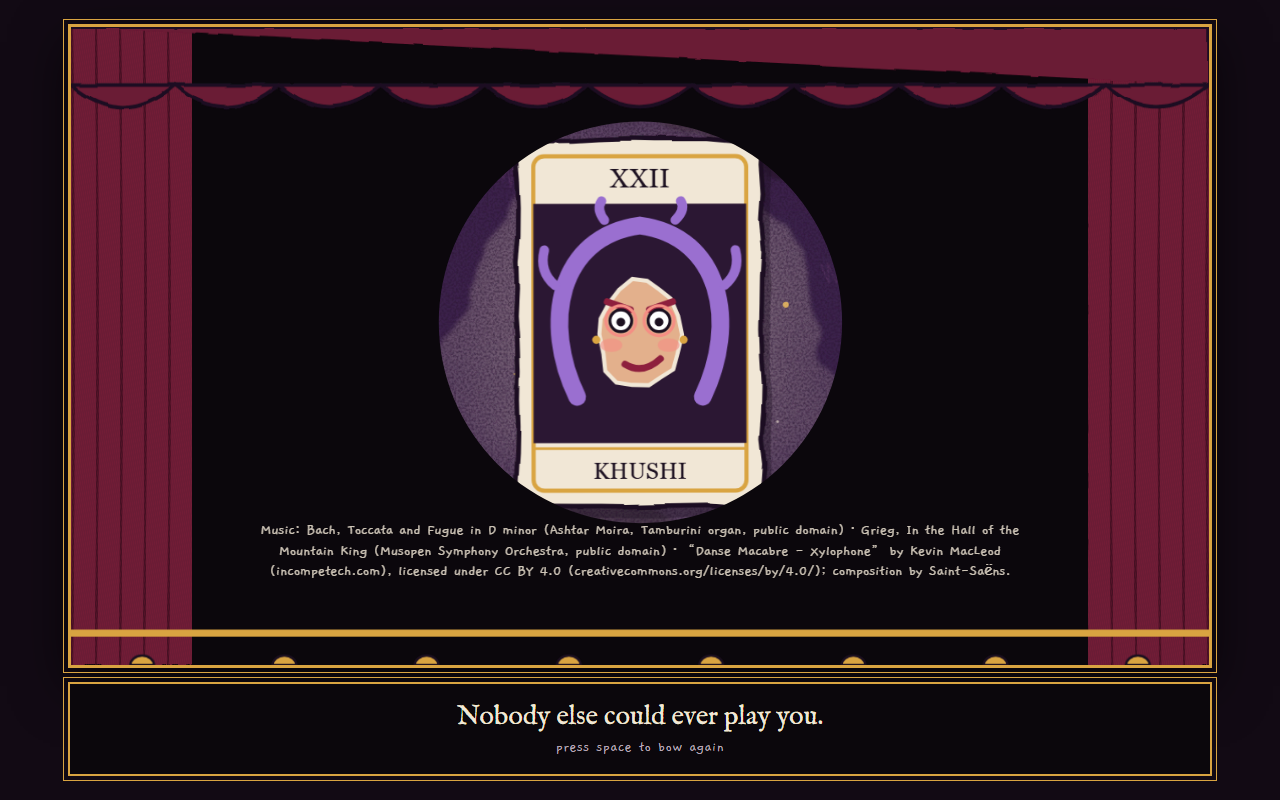
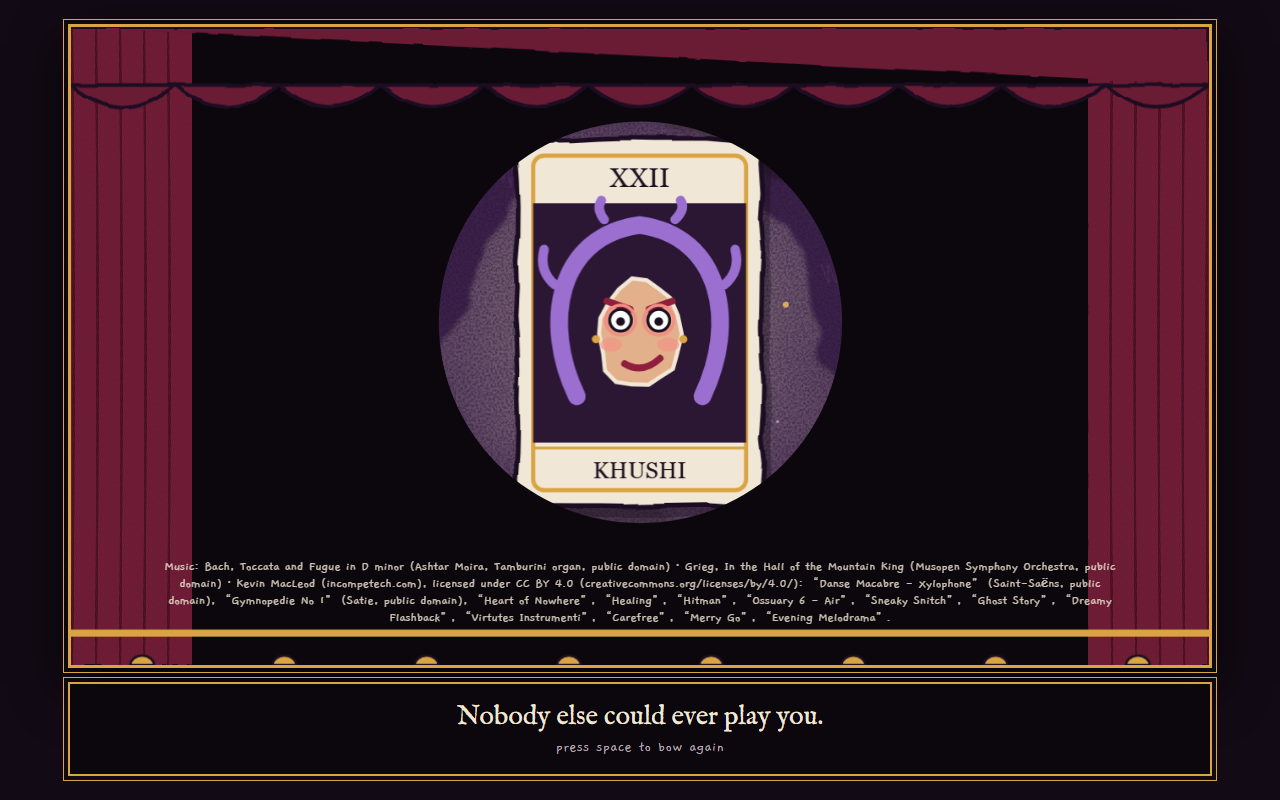
witch: v2 audio engine, new music wired, credits

diff --git a/the-witch-who-would-not-be-read/app.js b/the-witch-who-would-not-be-read/app.js
@@ -180,7 +180,7 @@
      SFX: thud(i) gong hit flingHit(hit + cut) ting(i) doorSlam pencil tick longTick heartbeatTick stroke(i)
      brushChord(=stroke) bell(n) bells([a,b] or 'a-b') bellsA(1-6) bellsB(7-11) bell12 bells12(all twelve)
      whoosh pop rustle munch chime flap boing slideWhistle. Unknown names are logged and stay silent. */
-  let activeName = null, noiseBuf = null;
+  let activeName = null, noiseBuf = null, strokeN = 0;
   const BASE_VOL = 0.88;
 
   function setVol(t, v) {
@@ -260,7 +260,20 @@
     mountainKing: { file: 'mountain-king', loop: false },
     musicBox: { file: 'music-box', loop: true },
     misteriosoCard: { file: 'misterioso-card', loop: true },
-    finale: { file: 'waltz-finale', loop: false }
+    finale: { file: 'waltz-finale', loop: false },
+    /* v2 additions (Kevin MacLeod, CC BY 4.0; 38-75 s, they fade out by themselves) */
+    dreamyTarot: { file: 'dreamy-tarot', loop: false },
+    hitmanDread: { file: 'hitman-dread', loop: false },
+    gymnopedieCall: { file: 'gymnopedie-call', loop: false },
+    eveningMelodramaStamp: { file: 'evening-melodrama-stamp', loop: false },
+    ossuaryAirSuspended: { file: 'ossuary-air-suspended', loop: true },
+    virtutesDoctor: { file: 'virtutes-doctor', loop: false },
+    sneakySnitchBitch: { file: 'sneaky-snitch-bitch', loop: false },
+    heartOfNowhereHealer: { file: 'heart-of-nowhere-healer', loop: false },
+    ghostStoryWitch: { file: 'ghost-story-witch', loop: false },
+    carefreeArtist: { file: 'carefree-artist', loop: false },
+    merryGoConfetti: { file: 'merry-go-confetti', loop: false },
+    healingClosing: { file: 'healing-closing', loop: false }
   };
   const ALIAS = {
     waltzPrim: ['waltz'], waltzSoft: ['waltz', 'soft'], waltzLoud: ['waltz', 'loud'], waltzOff: ['waltz', 'off'],
@@ -274,7 +287,7 @@
     if (f.soft) vol *= 0.55;
     if (f.low) vol *= 0.5;
     if (f.loud) vol = 0.95;
-    playFile(d.file, { loop: d.loop, loopStart: d.loopStart || 0, vol, rate: f.off ? 0.94 : 1, fadeIn: f.fade ? 1000 : 0, cross: f.cross ? 1000 : 0, cutAfter: d.cutAfter || 0 });
+    playFile(d.file, { loop: d.loop, loopStart: d.loopStart || 0, vol, rate: f.off ? 0.94 : 1, fadeIn: f.fade2 ? 2000 : (f.fade || f.fadeIn) ? 1000 : 0, cross: f.cross2 ? 2000 : f.cross ? 1000 : 0, cutAfter: d.cutAfter || 0 });
   }
 
   const mtof = m => 440 * Math.pow(2, (m - 69) / 12);
@@ -312,12 +325,16 @@
     const t = ACX ? ACX.currentTime : 0;
     const num = Number.isFinite(Number(arg)) && arg !== null && arg !== '' && !Array.isArray(arg) ? Number(arg) : 0;
     if (MUSIC[name]) {
+      if (name === 'overture') strokeN = 0;
       if (name === 'overture' && ACX) [43, 55, 58, 62, 67].forEach(m => osc('sawtooth', mtof(m), t, 0.9, 0.08, sfxGain, 2200));
       playMusic(name, arg);
       return;
     }
     switch (name) {
       case 'silence': case 'cut': stopMusicDead(); break;
+      case 'musicLevel': { const m = activeName && tracks[activeName]; if (m) { m.base = Math.min(1, num); fadeTrack(m, m.base, 400); } break; }
+      case 'musicDuck': { const m = activeName && tracks[activeName]; if (m) fadeTrack(m, arg == null ? 0.25 : num, 300); break; }
+      case 'musicFade': fadeMusicOut(1000); break;
       case 'fadeOut': fadeMusicOut(typeof arg === 'number' ? arg : 1000); break;
       case 'duck': { const m = activeName && tracks[activeName]; if (m) fadeTrack(m, (m.base || BASE_VOL) * 0.25, 400); break; }
       case 'unduck': {
@@ -371,6 +388,20 @@
         if (o) o.frequency.exponentialRampToValueAtTime(f0 * 2, t + 0.5);
         osc('triangle', f0 * 3, t + 0.05, 0.4, 0.05, sfxGain, 6000);
         noise(t, 0.25, 0.04, 2500, 'bandpass', 0.9);
+      } break;
+      case 'gongSoft': if (ACX) [38, 45, 50, 57, 61, 66].forEach((m, i) => osc(i % 2 ? 'triangle' : 'sawtooth', mtof(m), t, 2.2, 0.022, sfxGain, 1000)); break; /* leaves the music running */
+      case 'tagThud': if (ACX) {
+        const o = osc('sine', 150, t, 0.2, 0.2, sfxGain, 420);
+        if (o) o.frequency.exponentialRampToValueAtTime(70, t + 0.15);
+        noise(t, 0.06, 0.07, 1200, 'lowpass');
+      } break;
+      case 'brushStroke': if (ACX) {
+        if (arg === 'reset') { strokeN = 0; break; }
+        const f0 = 392 * Math.pow(1.1225, strokeN % 9); strokeN++;
+        const o = osc('sine', f0, t, 0.35, 0.13, sfxGain, 5000);
+        if (o) o.frequency.exponentialRampToValueAtTime(f0 * 1.5, t + 0.25);
+        osc('triangle', f0 * 2, t + 0.03, 0.22, 0.035, sfxGain, 6000);
+        noise(t, 0.12, 0.025, 2600, 'bandpass', 0.9);
       } break;
       case 'bell': if (ACX) bell(num || 1, t); break;
       case 'bells': if (ACX) {

diff --git a/the-witch-who-would-not-be-read/act5.js b/the-witch-who-would-not-be-read/act5.js
@@ -129,7 +129,7 @@ const V5clock = { x: 836, y: 104, s: 0.4, h: 11.984 };
     ],
     async run(ctx) {
       ctx.setCurtain(1); V5.tick(ctx);
-      ctx.audio('waltz');
+      ctx.audio('virtutesDoctor');
       ctx.say(this.words, V5.HINT);
       ctx.pose('tag', { dy: -220, op: 0, r: -16 });
       ctx.tween(520, p => { const e = ctx.ease(p); ctx.pose('tag', { dy: -220 * (1 - e), op: Math.min(1, p * 3), r: -16 * (1 - e) }); });
@@ -206,6 +206,7 @@ const V5clock = { x: 836, y: 104, s: 0.4, h: 11.984 };
       async function (ctx) {
         V5.tick(ctx);
         ctx.say('The Script ticked it off. Her card kept growing.', V5.HINT);
+        ctx.audio('fadeOut', 1500);
         ctx.hide('list'); ctx.show('tick');
         ctx.audio('tagThud');
         ctx.pose('script', { r: 0 });
@@ -236,7 +237,7 @@ const V5clock = { x: 836, y: 104, s: 0.4, h: 11.984 };
     ],
     async run(ctx) {
       ctx.setCurtain(1); V5.tick(ctx);
-      ctx.audio('bach');
+      ctx.audio('sneakySnitchBitch');
       ctx.say(this.words, V5.HINT);
       ctx.pose('tag', { dx: -200, dy: -60, r: -300, op: 0 });
       ctx.tween(380, p => {
@@ -296,7 +297,7 @@ const V5clock = { x: 836, y: 104, s: 0.4, h: 11.984 };
     ],
     async run(ctx) {
       ctx.setCurtain(1); V5.tick(ctx);
-      ctx.audio('musicBox');
+      ctx.audio('heartOfNowhereHealer', 'fade2');
       ctx.say(this.words, V5.HINT);
       ctx.pose('tag', { dx: -60, dy: -20, op: 0 });
       ctx.tween(700, p => { const e = ctx.ease(p); ctx.pose('tag', { dx: -60 * (1 - e), dy: -20 * (1 - e), op: Math.min(1, p * 3), r: 4 * Math.sin(p * 6) }); });
@@ -372,7 +373,7 @@ const V5clock = { x: 836, y: 104, s: 0.4, h: 11.984 };
     ],
     async run(ctx) {
       ctx.setCurtain(1); V5.tick(ctx);
-      ctx.audio('danse');
+      ctx.audio('ghostStoryWitch', 'fade');
       ctx.say(this.words, V5.HINT);
       const sx = [185, 185, 185, 185, 185], sy = [300, 300, 300, 300, 300], ex = [270, 370, 480, 640, 800], ey = [130, 190, 100, 100, 105];
       for (let i = 0; i < 5; i++) {
@@ -435,8 +436,7 @@ const V5clock = { x: 836, y: 104, s: 0.4, h: 11.984 };
     ],
     async run(ctx) {
       ctx.setCurtain(1); V5.tick(ctx);
-      ctx.audio('danse');
-      ctx.say(this.words, V5.HINT);
+      ctx.say(this.words, V5.HINT); // ghost-story-witch keeps playing
       ctx.pose('glass', { dx: 0, dy: 0 });
       ctx.tween(2400, p => {
         const e = ctx.ease(Math.min(1, p * 1.5));
@@ -491,6 +491,7 @@ const V5clock = { x: 836, y: 104, s: 0.4, h: 11.984 };
     ],
     async run(ctx) {
       ctx.setCurtain(1); V5.tick(ctx);
+      ctx.audio('carefreeArtist');
       ctx.say(this.words, V5.HINT);
       ctx.pose('hand', { dx: -100, dy: 160, op: 0 });
       ctx.tween(1100, p => {
@@ -528,7 +529,7 @@ const V5clock = { x: 836, y: 104, s: 0.4, h: 11.984 };
       async function (ctx) {
         V5.tick(ctx);
         ctx.say('The last stroke was her eyes.', V5.HINT);
-        ctx.audio('silence');
+        ctx.audio('fadeOut', 1000);
         ctx.show('s5'); ctx.pose('s5', { clip: 'inset(0 100% 0 0)' });
         ctx.show('brush');
         ctx.audio('brushStroke');
@@ -597,7 +598,7 @@ const V5clock = { x: 836, y: 104, s: 0.4, h: 11.984 };
       sprites,
       async run(ctx) {
         ctx.setCurtain(1); V5.tick(ctx);
-        ctx.audio('musicBox');
+        ctx.audio('ossuaryAirSuspended', 'fade');
         ctx.say(this.words, V5.HINT);
         H5.forEach((h, i) => {
           setTimeout(() => {

diff --git a/the-witch-who-would-not-be-read/act3.js b/the-witch-who-would-not-be-read/act3.js
@@ -60,7 +60,7 @@ const a3Flakes = () => { let g = ''; for (let i = 0; i < 26; i++) g += `<path d=
       async function (ctx) { // P28
         ctx.setClockTime(a3Clock(28));
         a3Say(ctx, 'He had a talk coming up, and he did not feel ready.');
-        ctx.audio('mountainKing', 'low');
+        ctx.audio('hitmanDread', 'fade soft');
         ctx.hide('ayanA'); ctx.show('ayanB');
         ctx.show('page');
         ctx.pose('page', { dx: 190, op: 0 });
@@ -118,6 +118,7 @@ const a3Flakes = () => { let g = ''; for (let i = 0; i < 26; i++) g += `<path d=
       async function (ctx) { // P30
         ctx.setClockTime(a3Clock(30));
         a3Say(ctx, 'Then came a panic attack. His chest got tight. Even the banana looked worried.');
+        ctx.audio('musicLevel', 0.9); // the dread swells with the tilt
         ctx.hide('ayanE'); ctx.show('ayanF');
         ctx.show('banW');
         const T = this.T, s0 = T.spin, th0 = T.th;
@@ -132,6 +133,7 @@ const a3Flakes = () => { let g = ''; for (let i = 0; i < 26; i++) g += `<path d=
       async function (ctx) { // P31
         ctx.setClockTime(a3Clock(31));
         a3Say(ctx, 'The harder he thought, the bigger the storm got.');
+        ctx.audio('mountainKing', 'cross'); // the P31 peak
         ctx.hide('ayanF'); ctx.show('ayanG');
         ctx.show('bolts'); ctx.show('script');
         const T = this.T, s0 = T.spin, th0 = T.th;
@@ -220,7 +222,7 @@ const a3Flakes = () => { let g = ''; for (let i = 0; i < 26; i++) g += `<path d=
       ctx.setCurtain(1);
       ctx.setClockTime(a3Clock(34));
       a3Say(ctx, this.words);
-      ctx.audio('musicBox', 'fadeIn');
+      ctx.audio('gymnopedieCall', 'fade');
       ctx.tween(800, p => {
         const k = Math.sin(p * Math.PI * 6);
         ctx.pose('rings', { op: k > -0.2 ? 1 : 0.15 });
@@ -272,6 +274,7 @@ const a3Flakes = () => { let g = ''; for (let i = 0; i < 26; i++) g += `<path d=
       ctx.setCurtain(1);
       ctx.setClockTime(a3Clock(36));
       a3Say(ctx, this.words);
+      ctx.audio('musicDuck', 0.35); // under the spoken lines
       ctx.tween(500, p => {
         const k = (1 - p);
         ctx.pose('tags', { dx: 10 * Math.sin(p * 20) * k, dy: 8 * Math.cos(p * 17) * k, r: 4 * Math.sin(p * 13) * k });
@@ -336,7 +339,7 @@ const a3Flakes = () => { let g = ''; for (let i = 0; i < 26; i++) g += `<path d=
       async function (ctx) { // P40
         ctx.setClockTime(a3Clock(40));
         a3Say(ctx, '"Pause."');
-        ctx.audio('musicDuck');
+        ctx.audio('silence'); // hard silence for the pause
         ctx.hide('ay1'); ctx.show('ay2');
         ctx.pose('ay2', { s: 1.05, dy: -4 });
         await ctx.wait(1700);
@@ -344,7 +347,7 @@ const a3Flakes = () => { let g = ''; for (let i = 0; i < 26; i++) g += `<path d=
       async function (ctx) { // P41
         ctx.setClockTime(a3Clock(41));
         a3Say(ctx, '"Don\'t dismiss it." So they felt it together.');
-        ctx.audio('musicLevel', 1);
+        ctx.audio('musicBox', 'fade soft'); // music-box only for the breath out
         ctx.hide('ay2'); ctx.show('ay3');
         ctx.show('flakes');
         ctx.pose('flakes', { dy: -170, op: 0 });

diff --git a/the-witch-who-would-not-be-read/index.html b/the-witch-who-would-not-be-read/index.html
@@ -89,7 +89,7 @@ html.phone,html.phone body{height:100%;overflow-y:auto;scroll-snap-type:y mandat
 #cap .line{font-family:var(--fell);font-size:clamp(18px,2.2vw,27px);line-height:1.25;color:var(--bone);text-wrap:balance;max-width:58ch}
 #cap .hint{font-family:var(--hand);font-size:15px;color:var(--dim);margin-top:4px;letter-spacing:.03em}
 #cap.blank .line{visibility:hidden}
-#stageCredits{position:absolute;left:16%;right:16%;bottom:13%;z-index:60;text-align:center;font-family:var(--hand);font-size:clamp(10px,1.35vw,15px);line-height:1.35;color:var(--bone);opacity:.85;pointer-events:none}
+#stageCredits{position:absolute;left:8%;right:8%;bottom:6%;z-index:60;text-align:center;font-family:var(--hand);font-size:clamp(9px,1.1vw,13px);line-height:1.3;color:var(--bone);opacity:.85;pointer-events:none}
 #credits{position:fixed;bottom:4px;right:12px;font-size:12px;color:var(--dim);opacity:.72;pointer-events:none}
 
 /* Portrait tablet ask */
@@ -158,7 +158,7 @@ html.phone,html.phone body{height:100%;overflow-y:auto;scroll-snap-type:y mandat
         <div id="curtainL"><img id="curtainLImg" alt=""></div>
         <div id="curtainR"><img id="curtainRImg" alt=""></div>
       </div>
-      <div id="stageCredits" hidden>Music: Bach, Toccata and Fugue in D minor (Ashtar Moira, Tamburini organ, public domain) · Grieg, In the Hall of the Mountain King (Musopen Symphony Orchestra, public domain) · “Danse Macabre - Xylophone” by Kevin MacLeod (incompetech.com), licensed under CC BY 4.0 (creativecommons.org/licenses/by/4.0/); composition by Saint-Saëns.</div>
+      <div id="stageCredits" hidden>Music: Bach, Toccata and Fugue in D minor (Ashtar Moira, Tamburini organ, public domain) · Grieg, In the Hall of the Mountain King (Musopen Symphony Orchestra, public domain) · Kevin MacLeod (incompetech.com), licensed under CC BY 4.0 (creativecommons.org/licenses/by/4.0/): “Danse Macabre - Xylophone” (Saint-Saëns, public domain), “Gymnopedie No 1” (Satie, public domain), “Heart of Nowhere”, “Healing”, “Hitman”, “Ossuary 6 - Air”, “Sneaky Snitch”, “Ghost Story”, “Dreamy Flashback”, “Virtutes Instrumenti”, “Carefree”, “Merry Go”, “Evening Melodrama”.</div>
       <div id="playbillFloat" hidden><img id="playbillFloatImg" alt=""></div>
       <div id="valanceWrap"><img id="valanceImg" alt=""></div>
     </div>

diff --git a/the-witch-who-would-not-be-read/act6-finale.js b/the-witch-who-would-not-be-read/act6-finale.js
@@ -63,7 +63,7 @@ const finClose = ['scriptCU', 'mono', 'cuCard2', 'cuTitle', 'cuScrap', 'cuPlayed
       ctx.hideIris();
       ctx.say(this.words, '');
       ctx.pose('stampW', { r: 8 });
-      ctx.audio('waltz', 'loud');
+      ctx.audio('eveningMelodramaStamp');
       ctx.audio('bells', '1-6');
       const hand = finEl('cMin');
       ctx.tween(1800, p => { if (hand) hand.setAttribute('transform', `rotate(${(352.8 + (1080 - 352.8) * ctx.ease(p)).toFixed(1)})`); }, () => ctx.setClockTime(12));
@@ -198,12 +198,13 @@ const finClose = ['scriptCU', 'mono', 'cuCard2', 'cuTitle', 'cuScrap', 'cuPlayed
       ctx.pose('ayanEat', { op: 1 });
       ctx.audio('munch');
       await ctx.wait(900);
+      ctx.audio('merryGoConfetti', 'cross'); // under the confetti
       ctx.say("Even the Script bowed. Ayan cheered, and finally ate his banana.", 'press space to continue');
     },
     async confettiWide(ctx) { // P84
       const k = finK();
       ctx.say("Happy birthday, Khushi.", '');
-      ctx.audio('unduck');
+      ctx.audio('healingClosing', 'cross2');
       ctx.pose('khushiH', { op: 0 });
       ctx.pose('khushiB', { op: 1, r: 0 });
       ['conf1', 'conf2'].forEach(i => ctx.pose(i, { op: 1, dy: -480 * k }));
@@ -218,7 +219,7 @@ const finClose = ['scriptCU', 'mono', 'cuCard2', 'cuTitle', 'cuScrap', 'cuPlayed
       finWide.forEach(i => ctx.hide(i));
       ctx.pose('cuCardFin', { op: 1 });
       const clk = finEl('clockLayer'); if (clk) clk.hidden = true;
-      ctx.audio('fadeOut', 4200);
+      ctx.audio('fadeOut', 9000);
       ctx.showIris(480, 250, 620);
       ctx.tween(4500, p => ctx.showIris(480, 250, 620 - 450 * ctx.ease(p)));
       await ctx.wait(4700);

diff --git a/the-witch-who-would-not-be-read/act4.js b/the-witch-who-would-not-be-read/act4.js
@@ -40,7 +40,7 @@ const a4CardText = (lines, y0) => `<g transform="translate(500 285) scale(1.3)">
     async run(ctx) {
       // P42: intertitle; Khushi deals, the card flips to THE FOOL (0)
       ctx.setCurtain(1);
-      ctx.audio('misteriosoCard');
+      ctx.audio('dreamyTarot', 'fade');
       ctx.say(this.words, 'press space');
       ctx.show('plaque');
       ctx.pose('plaque', { s: 0.4 });
@@ -71,7 +71,6 @@ const a4CardText = (lines, y0) => `<g transform="translate(500 285) scale(1.3)">
         ctx.show('t1');
         ctx.pose('t1', { op: 0 });
         ctx.tween(500, p => ctx.pose('t1', { op: ctx.ease(p) }));
-        setTimeout(() => ctx.audio('misteriosoCard'), 700);
         await ctx.wait(600);
       },
       // P44: line 2 and the tower
@@ -129,6 +128,7 @@ const a4CardText = (lines, y0) => `<g transform="translate(500 285) scale(1.3)">
     async run(ctx) {
       // P45: the Script snatches the card, pen out
       ctx.setCurtain(1);
+      ctx.audio('fadeOut', 1000); // the tarot colour fades out
       ctx.say(this.words, 'press space');
       ctx.pose('card', { dx: a4px(140), dy: a4px(5), r: 14 });
       await ctx.wait(350);
